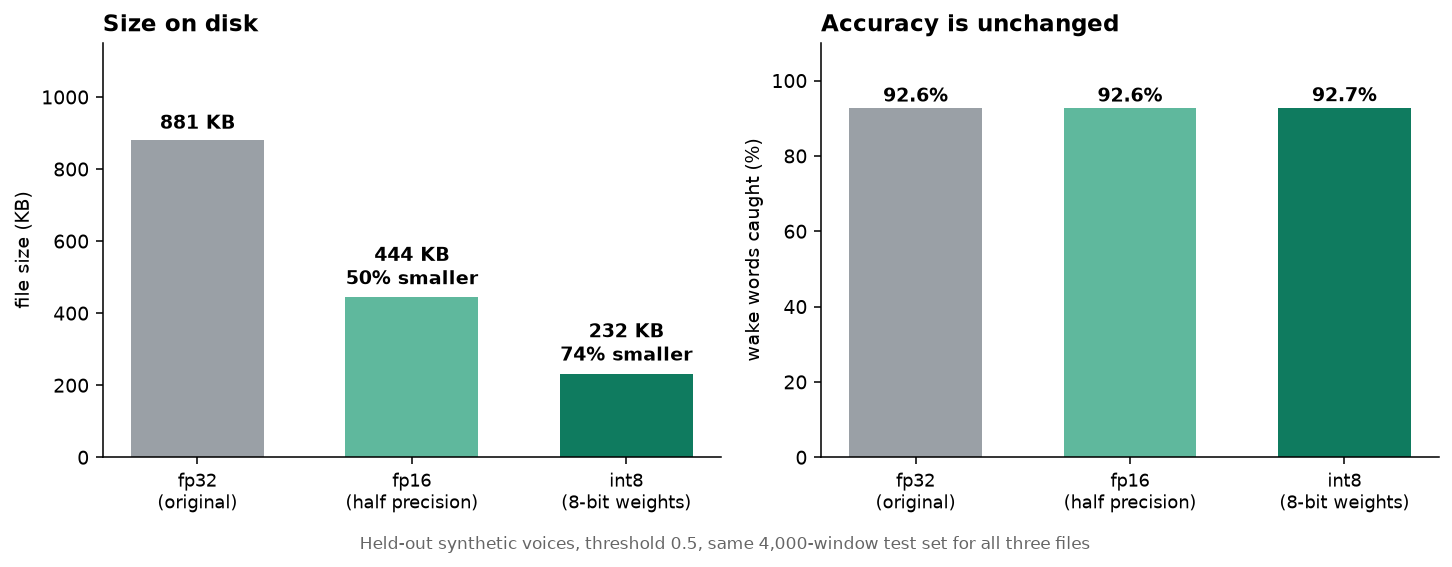
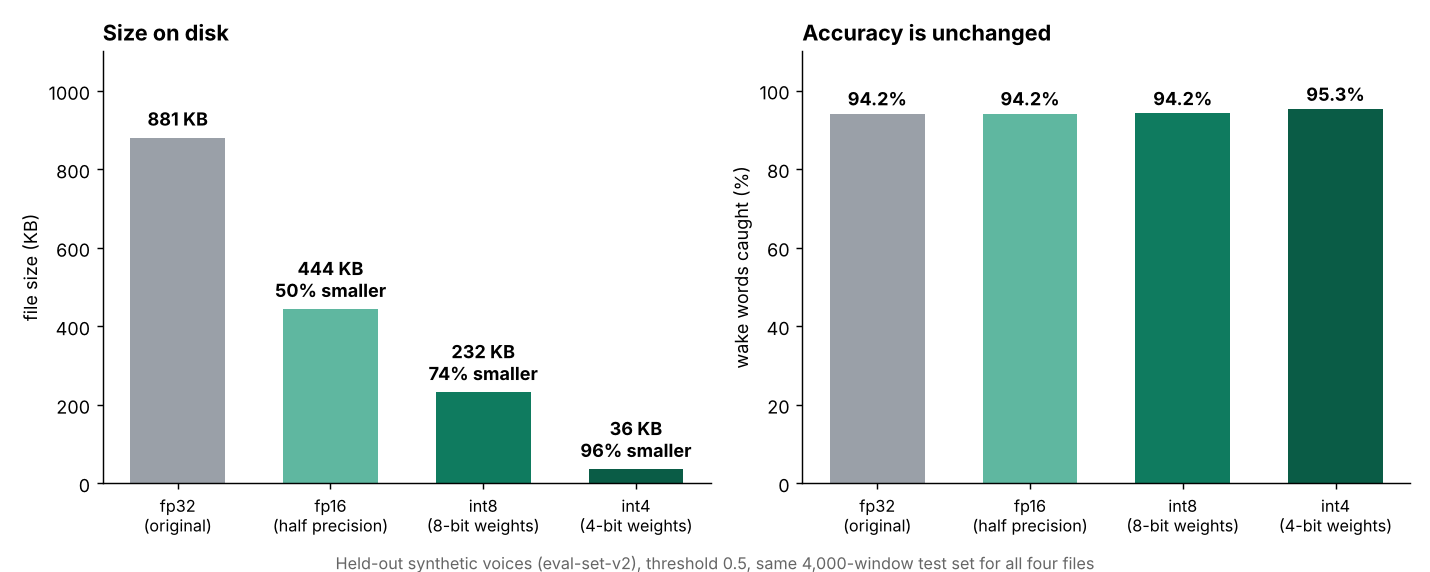
README and size chart for the four model files, measured not typed
- model-files table, 'at a glance' accuracy row and the size chart now show all four files (36/232/444/881 KB) on eval-set-v2, produced by make_size_chart.py; the chart title says accuracy is about the same (the 4-bit file catches about 1 point more at threshold 0.5)
- counts say four files, the int4 step is in 'how each file was made', the benchmarks section notes it uses the original held-out split
- the chart image is from the first run (old title); the next commit has the final one

diff --git a/make_size_chart.py b/make_size_chart.py
@@ -74,7 +74,7 @@ def main():
     ax[1].bar(labels, rec, color=colors, width=0.62)
     for i, v in enumerate(rec):
         ax[1].text(i, v + 1, f"{v:.1f}%", ha="center", va="bottom", fontweight="bold", fontsize=10)
-    ax[1].set_ylim(0, 110); ax[1].set_ylabel("wake words caught (%)"); ax[1].set_title("Accuracy is unchanged", loc="left", fontweight="bold")
+    ax[1].set_ylim(0, 110); ax[1].set_ylabel("wake words caught (%)"); ax[1].set_title("Accuracy is about the same", loc="left", fontweight="bold")
     for axis in ax:
         axis.spines[["top", "right"]].set_visible(False); axis.tick_params(axis="x", labelsize=9)
     fig.text(0.5, 0.005, "Held-out synthetic voices (eval-set-v2), threshold 0.5, same 4,000-window test set for all four files",

diff --git a/README.md b/README.md
@@ -39,7 +39,7 @@ anyone to start, and you can retrain it for a phrase of your own.
 | **Input** | 1.5 s of raw 16 kHz mono audio (no preprocessing needed) |
 | **Output** | probability that the wake word *just ended*, every 80 ms |
 | **Speed** | about 1.5 to 2 ms per window on one laptop CPU thread, roughly 2% of a core |
-| **Held-out accuracy** | AUC 0.993; catches 92.6% of wake words at 1.9% false triggers per window (synthetic voices) |
+| **Held-out accuracy** | AUC 0.9945; catches 94.2% of wake words at 2.0% false triggers per window (threshold 0.5, `eval-set-v2` synthetic voices) |
 | **Runs in** | Python (ONNX Runtime), any language with an ONNX runtime, and the browser (WebAssembly) |
 | **License** | MIT |
 
@@ -99,16 +99,22 @@ the npm registry yet (that needs an npm account and token). The tests check that
 ## 📦 The model files and how they're compressed
 
 There is **one model** (one trained network) shipped in **four file formats**. They differ only in how precisely each
-number is stored. Accuracy is the same; size is not.
+number is stored (the 36 KB file also computes the audio front end's fixed tables instead of storing them). Accuracy is about the same;
+size is not.
 
 ![Model sizes and accuracy](docs/model_sizes.png)
 
-| File | Precision | Size | Wake words caught | AUC | CPU / window |
-|------|-----------|-----:|------------------:|----:|-------------:|
-| [`kalki_int4.onnx`](models/kalki_int4.onnx) | 4-bit, front end computed at load | **36 KB** (-96%) | same (see below) | same (see below) | ~0.65 ms |
-| [`kalki_int8.onnx`](models/kalki_int8.onnx) | 8-bit | 232 KB (-74%) | 92.7% | 0.9930 | ~1.7 ms |
-| [`kalki_fp16.onnx`](models/kalki_fp16.onnx) | 16-bit | 444 KB (-50%) | 92.6% | 0.9930 | ~1.5 ms |
-| [`kalki_fp32.onnx`](models/kalki_fp32.onnx) | 32-bit | 881 KB (original) | 92.6% | 0.9930 | ~1.7 ms |
+| File | Precision | Size | Wake words caught @0.5 | AUC | Caught / false alarms per hour (0.8 x 2) | CPU / window |
+|------|-----------|-----:|-----------------------:|----:|------------------------------------------:|-------------:|
+| [`kalki_int4.onnx`](models/kalki_int4.onnx) | 4-bit, front end computed at load | **36 KB** (-96%) | 95.3% | 0.9945 | 97.4% / 28 | ~0.7 ms |
+| [`kalki_int8.onnx`](models/kalki_int8.onnx) | 8-bit | 232 KB (-74%) | 94.2% | 0.9945 | 97.4% / 27 | ~0.8 ms |
+| [`kalki_fp16.onnx`](models/kalki_fp16.onnx) | 16-bit | 444 KB (-50%) | 94.2% | 0.9945 | 97.4% / 27 | ~0.8 ms |
+| [`kalki_fp32.onnx`](models/kalki_fp32.onnx) | 32-bit | 881 KB (original) | 94.2% | 0.9945 | 97.4% / 27 | ~0.8 ms |
+
+Measured by `make_size_chart.py` on `eval-set-v2` (held-out synthetic voices): the same 4,000 test windows for all four files, plus a
+60-minute stream at the default trigger. The 4-bit file ranks windows the same way (same AUC) and catches about 1 point more at
+threshold 0.5, with slightly more false positives (2.1% against 2.0%); on the stream the default trigger gives the same result.
+Speeds are one thread on a cloud CPU core and vary with machine load, so treat them as "about the same", not as a ranking.
 
 **Which one?**
 
@@ -117,9 +123,6 @@ number is stored. Accuracy is the same; size is not.
 - **`kalki_int8.onnx`**: the same model for any onnxruntime version.
 - **`kalki_fp16.onnx`**: smaller than the original, but with no rounding of the weights to integers.
 - **`kalki_fp32.onnx`**: the exact trained numbers; use it if you plan to retrain or convert it to another format.
-
-Accuracy is measured on the same 4,000-window held-out test set for all three. Speeds are one thread on a laptop CPU and
-vary with machine load, so treat them as "about the same", not as a ranking.
 
 ### The 36 KB model
 
@@ -162,7 +165,7 @@ int8  ████               8 bits per number   232 KB
 int4  ▌                  4 bits per number    36 KB   (and the fixed front-end tables are computed, not stored)
 ```
 
-**How each file was made** (`quantize.py` rebuilds all three from the trained network):
+**How each file was made** (`quantize.py` rebuilds all four from the trained network):
 
 1. **fp32:** the network exported to ONNX as trained.
 2. **fp16:** every weight converted to a 16-bit float with `onnxconverter-common`. Inputs and outputs stay fp32, so you
@@ -171,6 +174,7 @@ int4  ▌                  4 bits per number    36 KB   (and the fixed front-end
    weight in one channel doesn't wash out the others). The file stores the int8 numbers plus the scales, and a small
    `DequantizeLinear` step turns them back into floats when the model loads. I wrote this step myself because ONNX
    Runtime's built-in dynamic quantizer fails on this model's GRU layer.
+4. **int4:** the 36 KB file, made from the fp32 one by `shrink_model.py` (see "The 36 KB model" below).
 
 **What to know about int8 here:** it is *weight-only* compression. The file is 74% smaller, but the math at run time still
 happens in floats, so it is **not faster**. A true integer-math build (for microcontrollers, say) is not done yet. Across the 4,000-window test
@@ -190,6 +194,10 @@ fast. What I *can't* tell you yet is how it does on real voices, because it was 
 | Retraining with more data and reverb improved it | The stream test has only 49 wake words, so per-hour figures are rough |
 
 ### 1. Detection quality (held-out synthetic voices)
+
+*The numbers in this section were measured on the original held-out split (5 voices) when the project started. Since then the evaluation
+was frozen as `eval-set-v2` (11 voices, 870 clips, a 60-minute stream); the same model scores AUC 0.9945 and 94.2% caught at threshold 0.5
+there (see the model-files table above). Treat the two as different test sets, not as a change in the model.*
 
 5 voices never used in training, 2,000 windows with the wake word and 2,000 without, with room reverb added.
 
@@ -444,7 +452,7 @@ tests/             regression tests (run on every push)
 examples/          voice-assistant sketch
 ```
 
-Tests: `pip install numpy scipy onnxruntime soundfile pytest && pytest`. They check that all three model files fire on the
+Tests: `pip install numpy scipy onnxruntime soundfile pytest && pytest`. They check that all four model files fire on the
 3 "hey kalki" sample clips and stay quiet on the other 4, that results don't depend on audio chunk size, that silence never
 triggers, and that the `score_real.py` helpers work.
 
